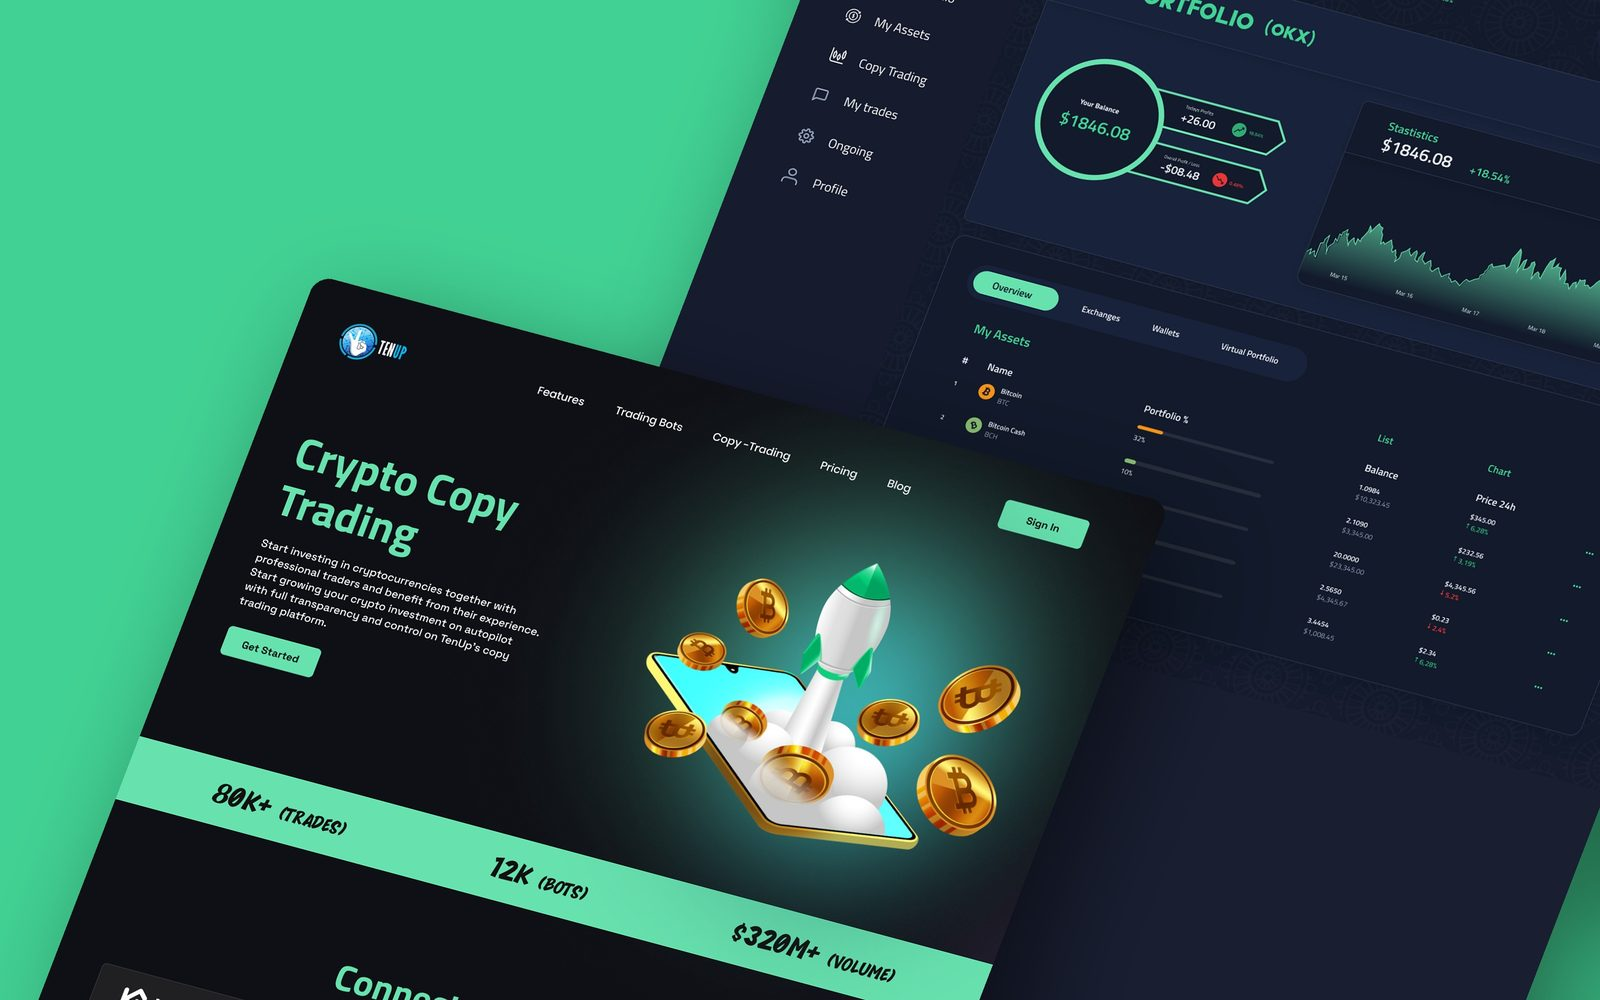
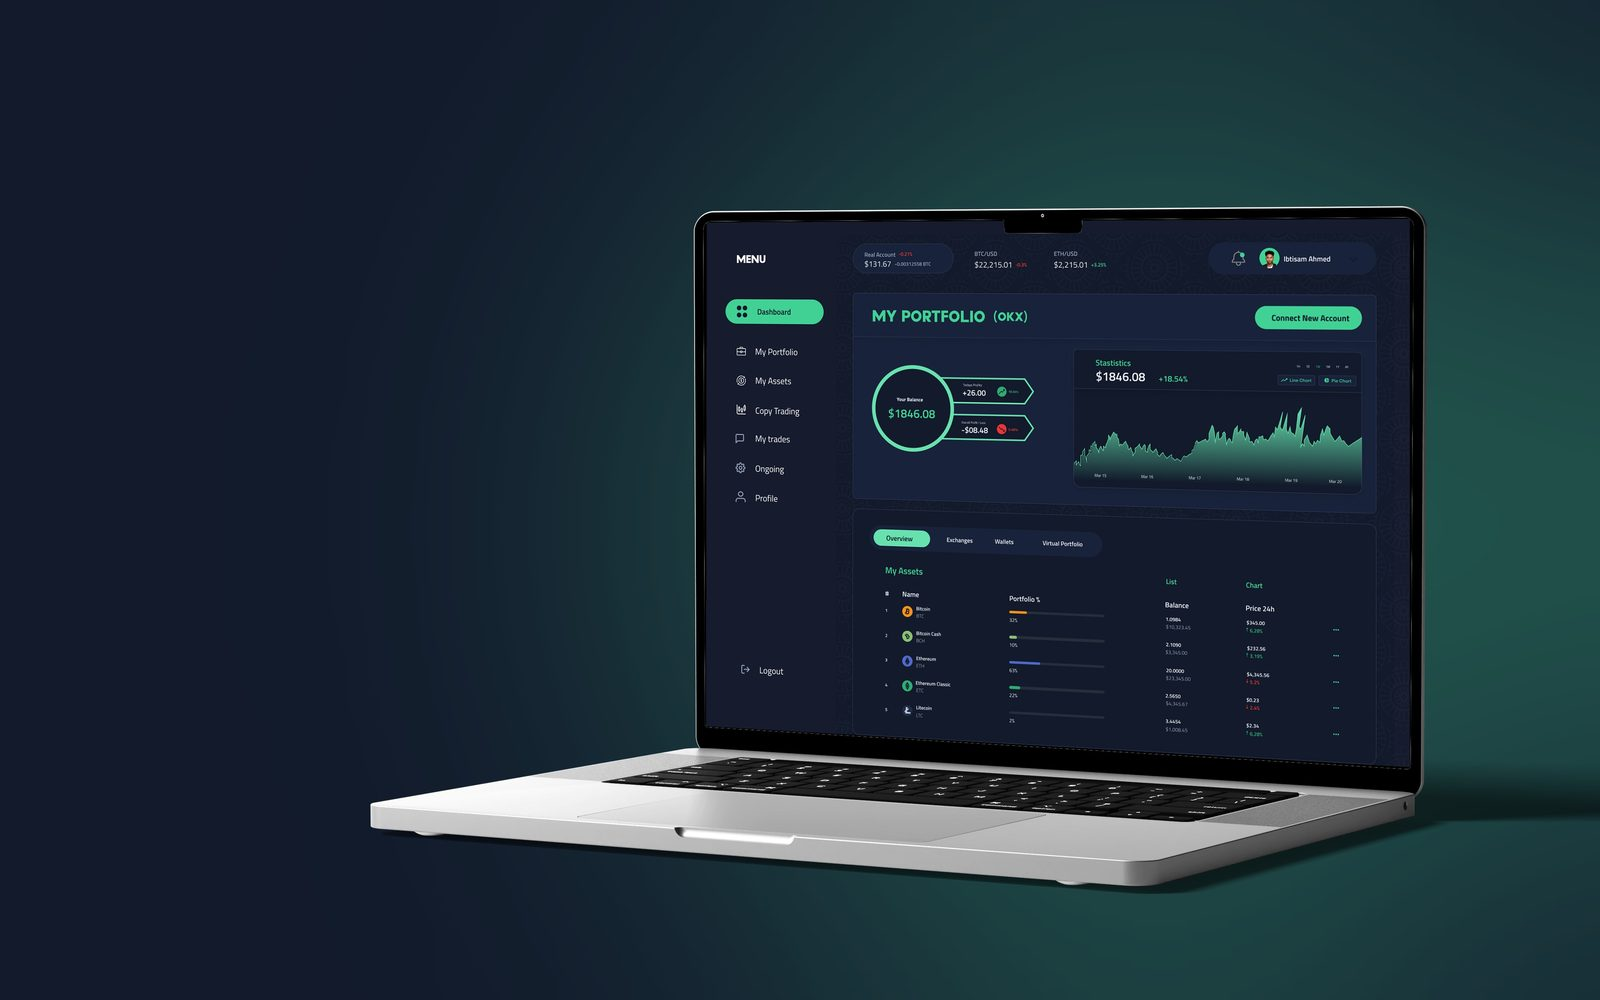
Dashboard-only case studies for Copy Trading and FutureBit (no landing page)

diff --git a/cases.js b/cases.js
@@ -1437,8 +1437,7 @@ window.CASES = {
    "web app",
    "crypto",
    "trading",
-   "fintech",
-   "landing page"
+   "fintech"
   ],
   "about": [
    "Tenup Copy Trading lets people follow experienced crypto traders and mirror their trades automatically."
@@ -1446,11 +1445,11 @@ window.CASES = {
   "sections": [
    [
     "What we did",
-    "We designed a landing page that explains copy trading simply, then a dashboard with a portfolio overview, live statistics, asset balances and trader profiles, shown here in a dark theme."
+    "We designed the full web app: sign up and KYC, connecting exchanges, plans, finding and following traders with risk limits, live trades and a portfolio overview, in a dark theme and a light theme."
    ],
    [
     "Scope",
-    "UI/UX design, landing page and web app screens, design system."
+    "UI/UX design, web app screens, design system."
    ]
   ]
  },
@@ -1473,7 +1472,7 @@ window.CASES = {
    ],
    [
     "Scope",
-    "UI/UX design, landing page and web app screens, design system."
+    "UI/UX design, web app screens, design system."
    ]
   ]
  },
@@ -1497,7 +1496,7 @@ window.CASES = {
    ],
    [
     "Scope",
-    "UI/UX design, landing page and web app screens, design system."
+    "UI/UX design, web app screens, design system."
    ]
   ]
  },
@@ -1521,7 +1520,7 @@ window.CASES = {
    ],
    [
     "Scope",
-    "UI/UX design, landing page and web app screens, design system."
+    "UI/UX design, web app screens, design system."
    ]
   ]
  }

diff --git a/data.js b/data.js
@@ -1239,8 +1239,7 @@ window.PROJECTS = [
    "web app",
    "crypto",
    "trading",
-   "fintech",
-   "landing page"
+   "fintech"
   ],
   "thumb": {
    "src": "img/copy-trading-platform-dashboard/thumb.jpg",
@@ -1256,22 +1255,22 @@ window.PROJECTS = [
    {
     "src": "img/copy-trading-platform-dashboard/02.jpg",
     "w": 1600,
-    "h": 1000
+    "h": 1018
    },
    {
     "src": "img/copy-trading-platform-dashboard/03.jpg",
     "w": 1600,
-    "h": 2083
+    "h": 1000
    },
    {
     "src": "img/copy-trading-platform-dashboard/04.jpg",
     "w": 1600,
-    "h": 1018
+    "h": 1083
    },
    {
     "src": "img/copy-trading-platform-dashboard/05.jpg",
     "w": 1600,
-    "h": 1000
+    "h": 867
    }
   ]
  },
@@ -1579,7 +1578,22 @@ window.PROJECTS = [
    {
     "src": "img/future-bit-trading-dashboard/02.jpg",
     "w": 1600,
-    "h": 1558
+    "h": 1000
+   },
+   {
+    "src": "img/future-bit-trading-dashboard/03.jpg",
+    "w": 1600,
+    "h": 1000
+   },
+   {
+    "src": "img/future-bit-trading-dashboard/04.jpg",
+    "w": 1600,
+    "h": 1083
+   },
+   {
+    "src": "img/future-bit-trading-dashboard/05.jpg",
+    "w": 1600,
+    "h": 867
    }
   ]
  },

diff --git a/apply_v3.py b/apply_v3.py
@@ -12,9 +12,9 @@ V3 = UPLOADS / "_v3_thumbs"
 AFTER = "inn-twin-data-platform-dashboard"
 NEW = [  # slug, upload folder, title, tags, intro, did
     ("copy-trading-platform-dashboard", "21 Copy Trading", "Tenup Copy Trading: Crypto Copy Trading Platform",
-     ["ui/ux", "dashboard", "web app", "crypto", "trading", "fintech", "landing page"],
+     ["ui/ux", "dashboard", "web app", "crypto", "trading", "fintech"],
      "Tenup Copy Trading lets people follow experienced crypto traders and mirror their trades automatically.",
-     "We designed a landing page that explains copy trading simply, then a dashboard with a portfolio overview, live statistics, asset balances and trader profiles, shown here in a dark theme."),
+     "We designed the full web app: sign up and KYC, connecting exchanges, plans, finding and following traders with risk limits, live trades and a portfolio overview, in a dark theme and a light theme."),
     ("motor-ad-design-app", "22 Motor", "Motor: Ad Design Web App",
      ["ui/ux", "web app", "saas", "design tool", "marketing"],
      "Motor is a web app for designing ads faster: pick a template, edit it and export it as an image, video or HTML ad.",
@@ -79,7 +79,7 @@ if __name__ == "__main__":
         fresh.append(dict(slug=slug, type="app", title=title, desc=intro, cats="UI/UX, Web App", tags=tags,
                           thumb=save(f / "00_thumbnail.png", OUT / "img" / slug / "thumb.jpg", 1200),
                           images=[save(m, OUT / "img" / slug / f"{k:02d}.jpg", 1600) for k, m in enumerate(mods, 1)]))
-        cases[slug] = dict(title=title, tags=tags, about=[intro], sections=[["What we did", did], ["Scope", "UI/UX design, landing page and web app screens, design system."]])
+        cases[slug] = dict(title=title, tags=tags, about=[intro], sections=[["What we did", did], ["Scope", "UI/UX design, web app screens, design system."]])
     i = next(k for k, p in enumerate(data) if p["slug"] == AFTER) + 1
     data = data[:i] + fresh + data[i:]
     assert len({p["slug"] for p in data}) == len(data), "duplicate slug"
